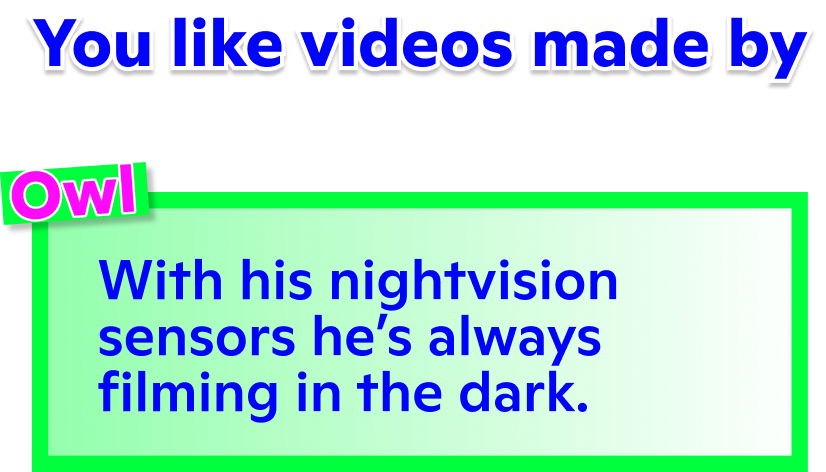
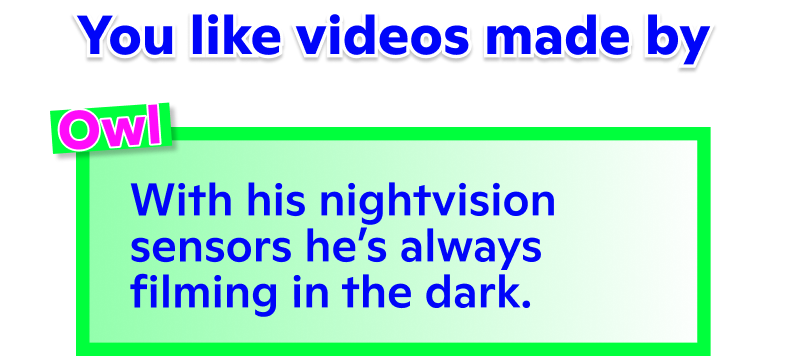
Aggiornamento automatico

diff --git a/output.html b/output.html
@@ -136,20 +136,18 @@
 	z-index: -1;
 	}
 	.section-3 .testosopra {
-	width: 360px;
-	margin-left: 10px;
+	width: 100%;
 	}
 	.section-3 .bottone {
 	position: relative;
-	width: 370px;
-	margin-left: 20px;
+	width: 100%;
 	margin-top: 40px;
 	}
 	.wrap2 { 
 	display: flex;
 	flex-direction: column;
 	align-items: flex-start;
-	width: 370px;
+	width: 100%;
 	}
 	.section-4 {
 	background: url('https://raw.githubusercontent.com/MarcoToon/output/refs/heads/main/pink-background.png') no-repeat center/cover;
@@ -157,8 +155,8 @@
 	position: relative;
 	}
 	.section-4 .text-image {
-	width: 350px; /* Adatta la larghezza per dispositivi mobili */
-	margin-top: 55px;
+	width: 100%;
+	margin-top: 50px;
 	}
 	.section-5 {
 	background: url('https://raw.githubusercontent.com/MarcoToon/output/refs/heads/main/sky-background2.png') no-repeat center/cover;
@@ -166,7 +164,7 @@
 	position: relative;
 	}
 	.section-5 .text-image {
-	width: 350px; /* Adatta la larghezza per dispositivi mobili */
+	width: 100%;
 	}
         .section-5 img.mano {
 	width: 320px;
@@ -203,17 +201,17 @@
 	<img src="https://raw.githubusercontent.com/MarcoToon/output/refs/heads/main/section-3-1.png" alt="Immagine 1" class="testosopra">
 	<div class="wrap2">
 	<div class="image-row1">
-	<img src="https://raw.githubusercontent.com/MarcoToon/output/refs/heads/main/rettangolo.png" alt="Background" class="background-image1">
+	<img id="rettangolo1" src="https://raw.githubusercontent.com/MarcoToon/output/refs/heads/main/rettangolo.png" alt="Background" class="background-image1">
 	<img id="tag1-image" src="" alt="Immagine 1">
 	<div id="percentuale1" class="percentage"></div>
 	</div>
 	<div class="image-row2">
-	<img src="https://raw.githubusercontent.com/MarcoToon/output/refs/heads/main/rettangolo.png" alt="Background" class="background-image2">
+	<img id="rettangolo2" src="https://raw.githubusercontent.com/MarcoToon/output/refs/heads/main/rettangolo.png" alt="Background" class="background-image2">
 	<img id="tag2-image" src="" alt="Immagine 2">
 	<div id="percentuale2" class="percentage"></div>
 	</div>
 	<div class="image-row3">
-	<img src="https://raw.githubusercontent.com/MarcoToon/output/refs/heads/main/rettangolo.png" alt="Background" class="background-image3">
+	<img id="rettangolo3" src="https://raw.githubusercontent.com/MarcoToon/output/refs/heads/main/rettangolo.png" alt="Background" class="background-image3">
 	<img id="tag3-image" src="" alt="Immagine 3">
 	<div id="percentuale3" class="percentage"></div>
 	</div>
@@ -249,6 +247,9 @@
 	if (percentuale1) document.getElementById('percentuale1').innerText = `${percentuale1}%`;
         if (percentuale2) document.getElementById('percentuale2').innerText = `${percentuale2}%`;
         if (percentuale3) document.getElementById('percentuale3').innerText = `${percentuale3}%`;
+	if (percentuale1) document.getElementById('rettangolo1').width = `${percentuale1}%`;
+        if (percentuale2) document.getElementById('rettangolo2').width = `${percentuale2}%`;
+        if (percentuale3) document.getElementById('rettangolo3').width = `${percentuale3}%`;
 	if (uccello1) document.getElementById('uccello1-image').src = `https://raw.githubusercontent.com/MarcoToon/output/refs/heads/main/${uccello1}bird.png`;
         if (personalita1) document.getElementById('personalita1-image').src = `https://raw.githubusercontent.com/MarcoToon/output/refs/heads/main/${personalita1}.png`;
         if (personalita2) document.getElementById('personalita2-image').src = `https://raw.githubusercontent.com/MarcoToon/output/refs/heads/main/${personalita2}.png`;
